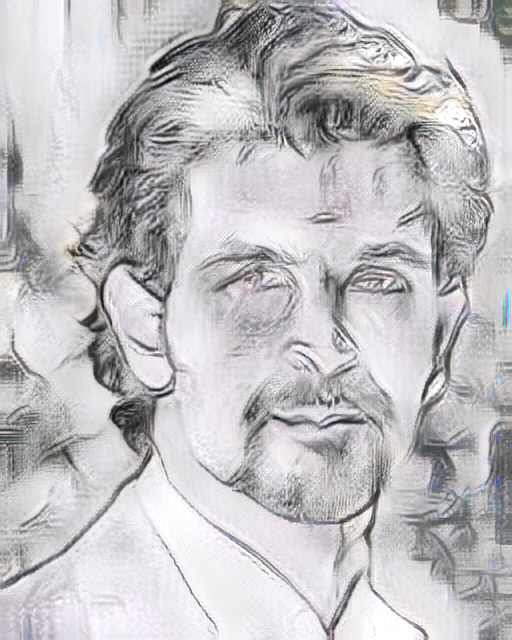
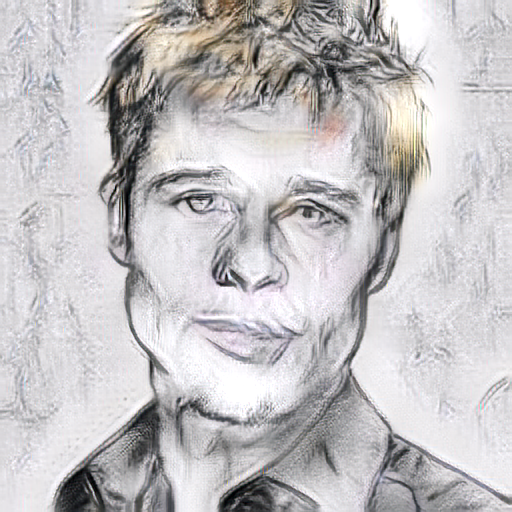
updated readme.md  and files

diff --git a/app.py b/app.py
@@ -36,7 +36,7 @@ decoder=Decoder()
 encoder.to(device)
 decoder.to(device)
 decoder.load_state_dict(torch.load(
-    os.path.join(BASE_DIR, "experiment", "training", "decoder 4 (1).pth"),
+    os.path.join(BASE_DIR, "experiment", "training", "decoder 320.pth"),
     map_location=device))
 encoder.eval()
 decoder.eval()

diff --git a/README.md b/README.md
@@ -63,10 +63,7 @@ Deployed on Render with Gunicorn:
 
 - Build command: `pip install -r requirements.txt`
 - Start command: `gunicorn app:app --workers 1 --timeout 120`
-- Environment variables: `PYTHON_VERSION=3.10.13`, `SECRET_KEY=<random value>`
-
-## Example results
-<https://github.com/snehal-k04/Adain-Style-Transfer/blob/main/examples/i_p%20image.jpeg>
+- Environment variables: `PYTHON_VERSION=3.10.13`, `SECRET_KEY=<--------->`
 
 ## Reference
 
